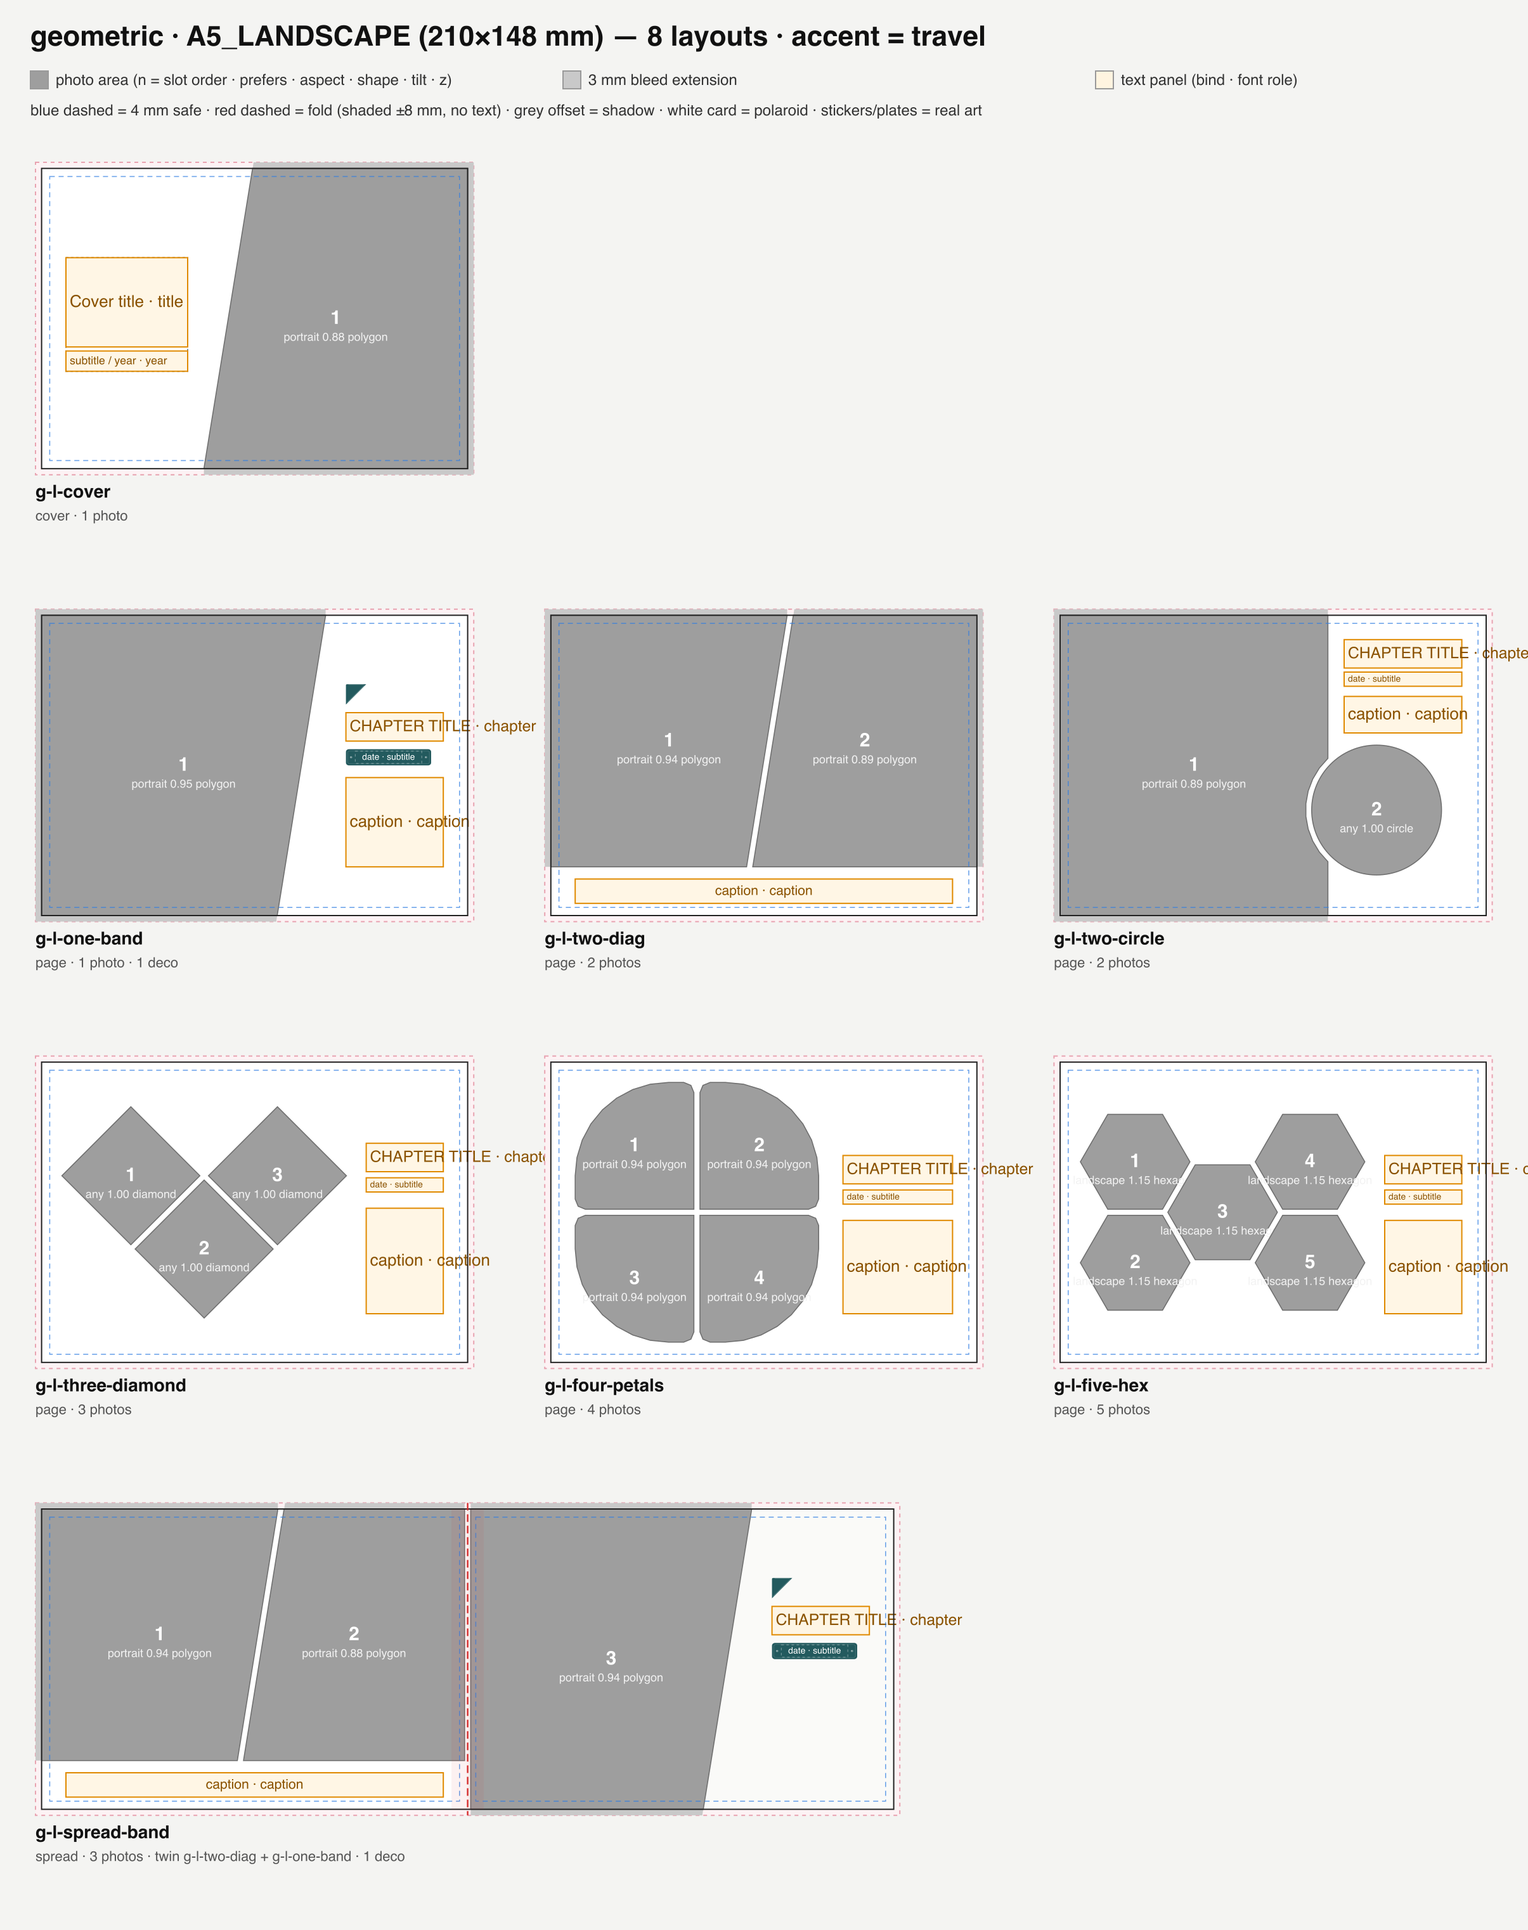
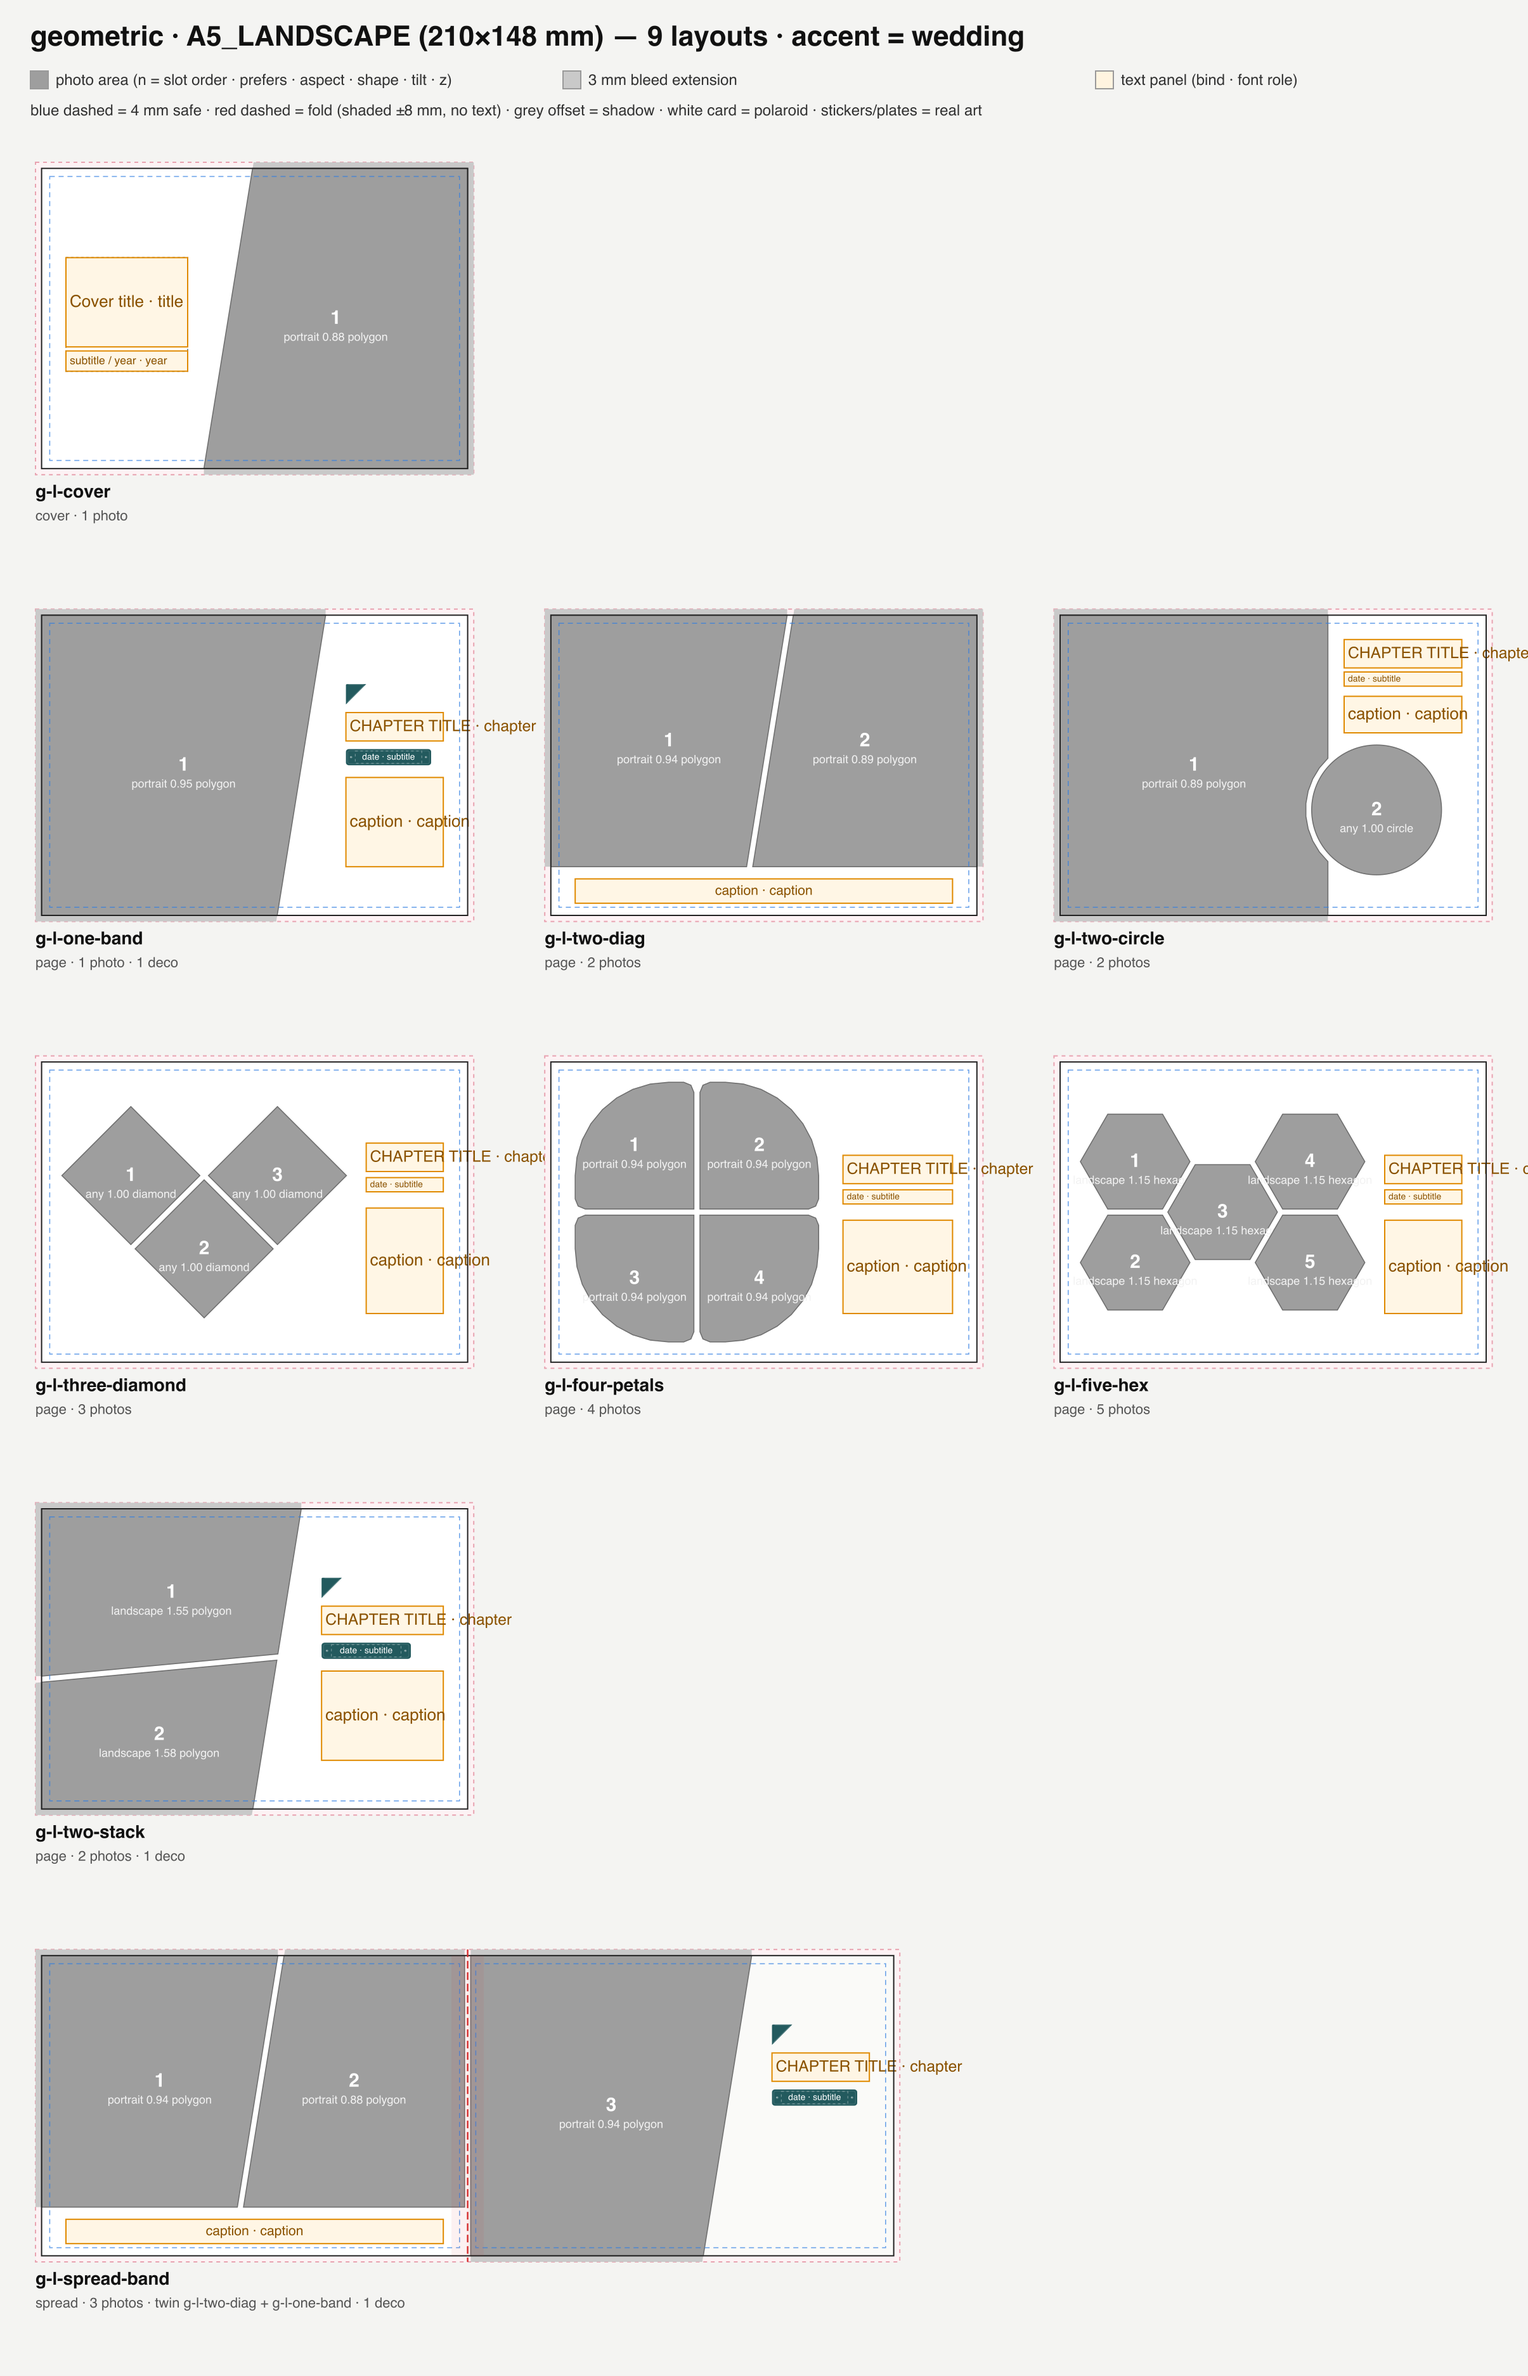
M10c: geometric 2-photo pages in the book's orientation (g-p-two-pair, g-l-two-stack)

diff --git a/src/lib/layouts/geometric/portrait/layouts.ts b/src/lib/layouts/geometric/portrait/layouts.ts
@@ -280,3 +280,46 @@ export const geometricPortraitSpreadBand: Layout = {
   ],
   decorations: [{ kind: "sticker", id: "photo-corner", box: g.shift(ONE_BAND_WEDGE), layer: "over", tint: ACCENT }],
 };
+
+// --- later additions (append-only) ----------------------------------------------------------------
+
+// Two tall photos side by side for PORTRAIT photos (the page's own orientation): one slanted seam
+// between them (3 mm gutter, perpendicular) and a shared bottom edge falling to the right, parallel
+// to the spread diagonal (slope 30/148), so the text block below reads like g-p-one-band's.
+const PAIR_BOTTOM = 92; // bottom edge height at x = 0 (mm); x = W → 122
+const pairBottom = (x: number) => PAIR_BOTTOM + SLOPE * x;
+const PAIR_K = 10 / 120; // seam leans right going down ("\"): x = PAIR_S0 + PAIR_K·y
+const PAIR_S0 = 69;
+const PAIR_HALF = verticalGap(GEO_GUTTER_MM / 2, PAIR_K); // horizontal half-gutter across the seam
+/** Point where the seam edge x = s0 + k·y meets the bottom edge. */
+const pairCorner = (s0: number): Pt => {
+  const y = (PAIR_BOTTOM + SLOPE * s0) / (1 - SLOPE * PAIR_K);
+  return [s0 + PAIR_K * y, y];
+};
+const pairLeft: Pt[] = [[0, 0], [PAIR_S0 - PAIR_HALF, 0], pairCorner(PAIR_S0 - PAIR_HALF), [0, pairBottom(0)]];
+const pairRight: Pt[] = [[PAIR_S0 + PAIR_HALF, 0], [W, 0], [W, pairBottom(W)], pairCorner(PAIR_S0 + PAIR_HALF)];
+const TWO_PAIR = {
+  wedge: rect(12, 131, 22, 141),
+  chapter: rect(26, 130, 136, 144),
+  date: rect(12, 148, 60, 156),
+  caption: rect(12, 162, 136, 201),
+};
+
+/** Two portrait photos side by side, slanted seam + diagonal bottom (bleed top/left/right); text block below. */
+export const geometricPortraitTwoPair: Layout = {
+  id: "g-p-two-pair",
+  name: "2 tall photos, slanted seam + text block",
+  role: "page",
+  style: "geometric",
+  format: "A5_PORTRAIT",
+  photoCount: 2,
+  prefers: ["portrait", "portrait"],
+  slots: [poly(pairLeft), poly(pairRight)],
+  caption: TWO_PAIR.caption,
+  texts: [
+    { bind: "chapterTitle", box: TWO_PAIR.chapter, align: "start", font: "chapter" },
+    { bind: "dateLabel", box: TWO_PAIR.date, align: "center", font: "subtitle", plate: DATE_PLATE },
+    { bind: "pageCaption", box: TWO_PAIR.caption, align: "start", font: "caption" },
+  ],
+  decorations: [{ kind: "sticker", id: "photo-corner", box: TWO_PAIR.wedge, layer: "over", tint: ACCENT }],
+};

diff --git a/src/lib/layouts/geometric/landscape/layouts.ts b/src/lib/layouts/geometric/landscape/layouts.ts
@@ -279,3 +279,45 @@ export const geometricLandscapeSpreadBand: Layout = {
   ],
   decorations: [{ kind: "sticker", id: "photo-corner", box: g.shift(ONE_BAND.wedge), layer: "over", tint: ACCENT }],
 };
+
+// --- later additions (append-only) ----------------------------------------------------------------
+
+// Two LANDSCAPE photos (the page's own orientation) stacked in a photo column that bleeds top /
+// left / bottom: a diagonal seam rising to the right between them (3 mm gutter, perpendicular) and
+// a right edge on the shared slope (parallel to g-l-one-band's cut); text column beside it.
+const STACK_R0 = 128; // right edge x at the top (mm); x = R0 − SLOPE·y
+const STACK_M = -12 / 128; // seam: y = STACK_S0 + STACK_M·x (rises to the right)
+const STACK_S0 = 84;
+const STACK_HALF = verticalGap(GEO_GUTTER_MM / 2, STACK_M); // vertical half-gutter across the seam
+/** Point where the seam edge y = c + m·x meets the slanted right edge. */
+const stackCorner = (c: number): Pt => {
+  const y = (c + STACK_M * STACK_R0) / (1 + STACK_M * SLOPE);
+  return [STACK_R0 - SLOPE * y, y];
+};
+const stackTop: Pt[] = [[0, 0], [STACK_R0, 0], stackCorner(STACK_S0 - STACK_HALF), [0, STACK_S0 - STACK_HALF]];
+const stackBottom: Pt[] = [[0, STACK_S0 + STACK_HALF], stackCorner(STACK_S0 + STACK_HALF), [STACK_R0 - SLOPE * H, H], [0, H]];
+const TWO_STACK = {
+  wedge: rect(138, 34, 148, 44),
+  chapter: rect(138, 48, 198, 62),
+  date: rect(138, 66, 182, 74),
+  caption: rect(138, 80, 198, 124),
+};
+
+/** Two landscape photos stacked, diagonal seam + slanted right edge (bleed top/left/bottom); text column. */
+export const geometricLandscapeTwoStack: Layout = {
+  id: "g-l-two-stack",
+  name: "2 wide photos, diagonal seam + text column",
+  role: "page",
+  style: "geometric",
+  format: "A5_LANDSCAPE",
+  photoCount: 2,
+  prefers: ["landscape", "landscape"],
+  slots: [poly(stackTop), poly(stackBottom)],
+  caption: TWO_STACK.caption,
+  texts: [
+    { bind: "chapterTitle", box: TWO_STACK.chapter, align: "start", font: "chapter" },
+    { bind: "dateLabel", box: TWO_STACK.date, align: "center", font: "subtitle", plate: DATE_PLATE },
+    { bind: "pageCaption", box: TWO_STACK.caption, align: "start", font: "caption" },
+  ],
+  decorations: [{ kind: "sticker", id: "photo-corner", box: TWO_STACK.wedge, layer: "over", tint: ACCENT }],
+};

diff --git a/tests/layouts-geometric.test.ts b/tests/layouts-geometric.test.ts
@@ -105,9 +105,9 @@ const textRects = (l: Layout) => [...(l.caption ? [l.caption] : []), ...(l.texts
 describe.each(SETS)("geometric $orientation catalogue", ({ format, prefix, list }) => {
   const byRole = (role: Layout["role"]) => list.filter((l) => l.role === role);
 
-  it("has 1 cover, 6 single pages, 1 spread — all geometric, ids g-<o>-*", () => {
+  it("has 1 cover, 7 single pages, 1 spread — all geometric, ids g-<o>-*", () => {
     expect(byRole("cover")).toHaveLength(1);
-    expect(byRole("page")).toHaveLength(6);
+    expect(byRole("page")).toHaveLength(7);
     expect(byRole("spread")).toHaveLength(1);
     for (const l of list) {
       expect(l.id.startsWith(prefix)).toBe(true);
@@ -356,12 +356,13 @@ describe.each(SETS)("validateBookDoc over every geometric $orientation layout", 
   it("an aligned doc using the cover, every single page and the spread has no issues", () => {
     let n = 1;
     const pages: BookPage[] = [];
-    for (const l of list.filter((x) => x.role === "page")) {
-      pages.push(pageOf(l, `pg${pages.length}`, n));
-      n += l.photoCount;
-    }
+    // Spreads first: they must start on an even index whatever the single-page count is.
     for (const l of list.filter((x) => x.role === "spread")) {
       pages.push(...spreadOf(l, `sp${pages.length}`, n));
+      n += l.photoCount;
+    }
+    for (const l of list.filter((x) => x.role === "page")) {
+      pages.push(pageOf(l, `pg${pages.length}`, n));
       n += l.photoCount;
     }
     const cover = list.find((l) => l.role === "cover")!;

diff --git a/tests/autolayout-m10c.test.ts b/tests/autolayout-m10c.test.ts
@@ -381,6 +381,21 @@ describe("spread rules per style (rule 10)", () => {
     expect(spreadsOf(d3).map((s) => s.layout)).toEqual(["g-l-spread-band"]);
   });
 
+  it("geometric: phone shots in the book's own orientation pair up (g-l-two-stack / g-p-two-pair), not one one-band page each", () => {
+    // 7 × 16:9 landscapes in a landscape book gave 7 one-band pages before the pair layouts existed.
+    for (const [format, w, h, pair] of [
+      ["A5_LANDSCAPE", 1920, 1080, "g-l-two-stack"],
+      ["A5_PORTRAIT", 1080, 1920, "g-p-two-pair"],
+    ] as const) {
+      const photos = Array.from({ length: 7 }, (_, i) => shot(`o${i}`, w, h, i));
+      const doc = autolayout(photos, { ...BASE, isPaid: true, design: { format, designStyle: "geometric" } });
+      const layouts = doc.pages.map((p) => p.layout);
+      expect(layouts, format).toContain(pair);
+      expect(layouts.filter((id) => id.endsWith("-one-band")).length, format).toBe(1); // the chapter opener only
+      expectValidDoc(doc, keptIds(photos), 100, format);
+    }
+  });
+
   it("spreads count 2 pages toward the free cap", () => {
     for (const design of DESIGNS) {
       const photos = Array.from({ length: 120 }, (_, i) => shotLP(`f${i}`, !(i % 3), i * 2));

diff --git a/src/lib/book/dev-sample.ts b/src/lib/book/dev-sample.ts
@@ -217,6 +217,7 @@ const M10C_SPECS: Record<M10cSampleBase, M10cSpec> = {
       ["g-p-three-diamond", "c3", true],
       ["g-p-four-petals", "c3", false],
       ["g-p-five-hex", "c3", true],
+      ["g-p-two-pair", "c3", true],
     ],
     background: color("geometric"),
     en: GEO_EN,
@@ -235,6 +236,7 @@ const M10C_SPECS: Record<M10cSampleBase, M10cSpec> = {
       ["g-l-three-diamond", "c3", true],
       ["g-l-four-petals", "c3", false],
       ["g-l-five-hex", "c3", true],
+      ["g-l-two-stack", "c3", true],
     ],
     background: color("geometric"),
     en: GEO_EN,

diff --git a/src/lib/layouts/geometric/landscape/index.ts b/src/lib/layouts/geometric/landscape/index.ts
@@ -11,6 +11,7 @@ import {
   geometricLandscapeThreeDiamond,
   geometricLandscapeTwoCircle,
   geometricLandscapeTwoDiag,
+  geometricLandscapeTwoStack,
 } from "./layouts";
 
 export const GEOMETRIC_LANDSCAPE_LAYOUTS: readonly Layout[] = [
@@ -22,4 +23,5 @@ export const GEOMETRIC_LANDSCAPE_LAYOUTS: readonly Layout[] = [
   geometricLandscapeFourPetals,
   geometricLandscapeFiveHex,
   geometricLandscapeSpreadBand,
+  geometricLandscapeTwoStack,
 ];

diff --git a/src/lib/layouts/geometric/portrait/index.ts b/src/lib/layouts/geometric/portrait/index.ts
@@ -11,6 +11,7 @@ import {
   geometricPortraitThreeDiamond,
   geometricPortraitTwoCircle,
   geometricPortraitTwoDiag,
+  geometricPortraitTwoPair,
 } from "./layouts";
 
 export const GEOMETRIC_PORTRAIT_LAYOUTS: readonly Layout[] = [
@@ -22,4 +23,5 @@ export const GEOMETRIC_PORTRAIT_LAYOUTS: readonly Layout[] = [
   geometricPortraitFourPetals,
   geometricPortraitFiveHex,
   geometricPortraitSpreadBand,
+  geometricPortraitTwoPair,
 ];
